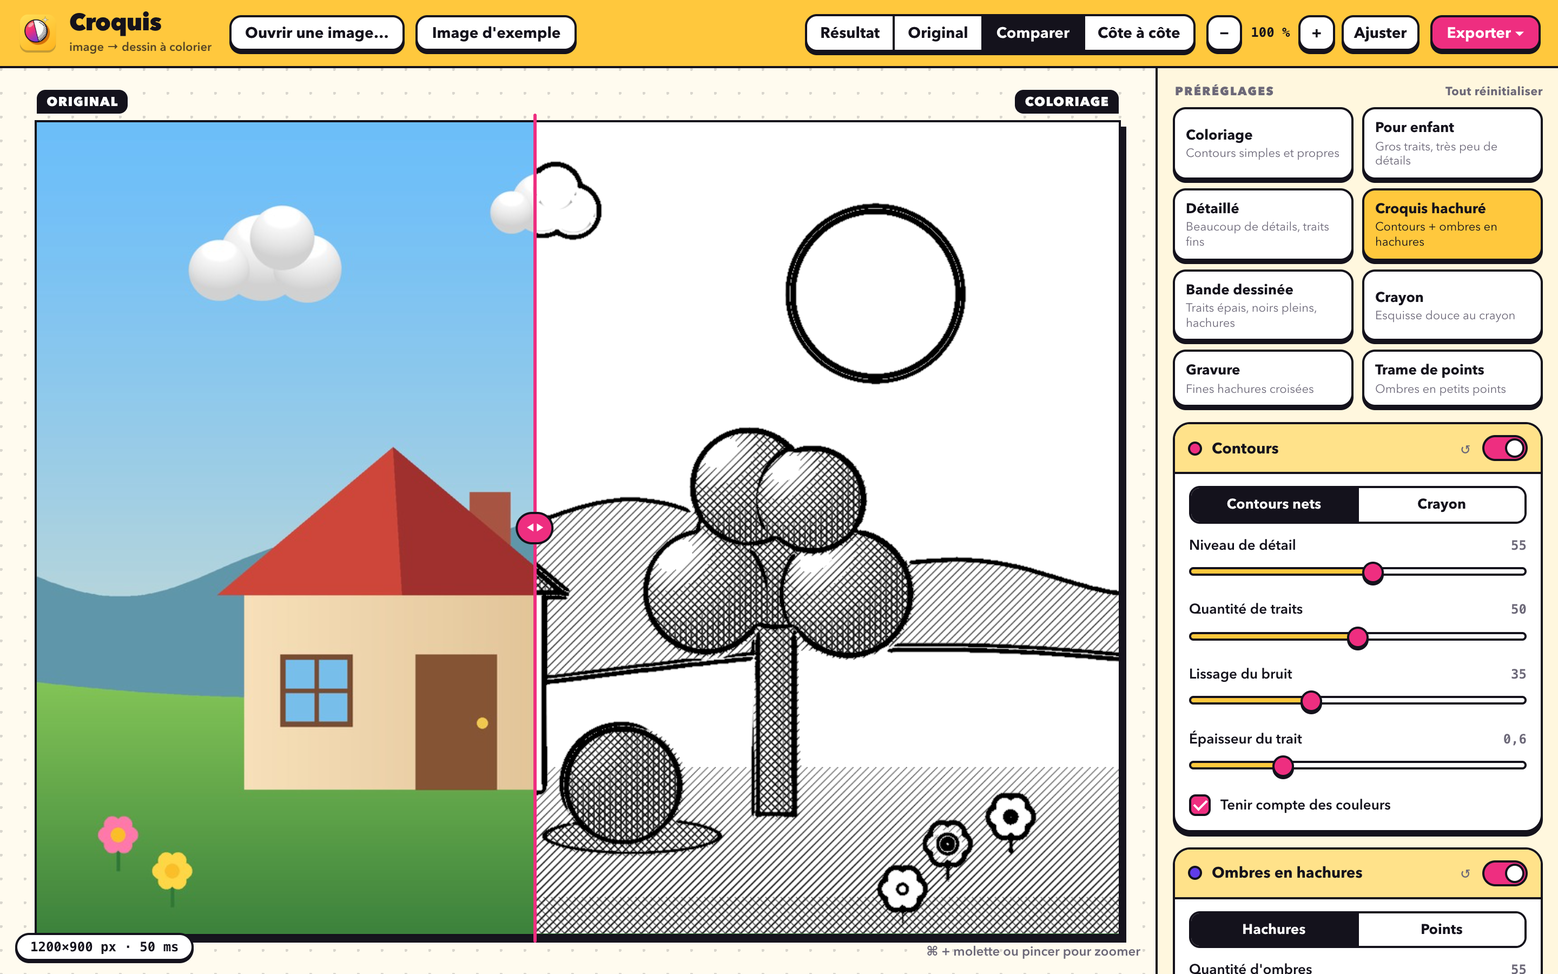
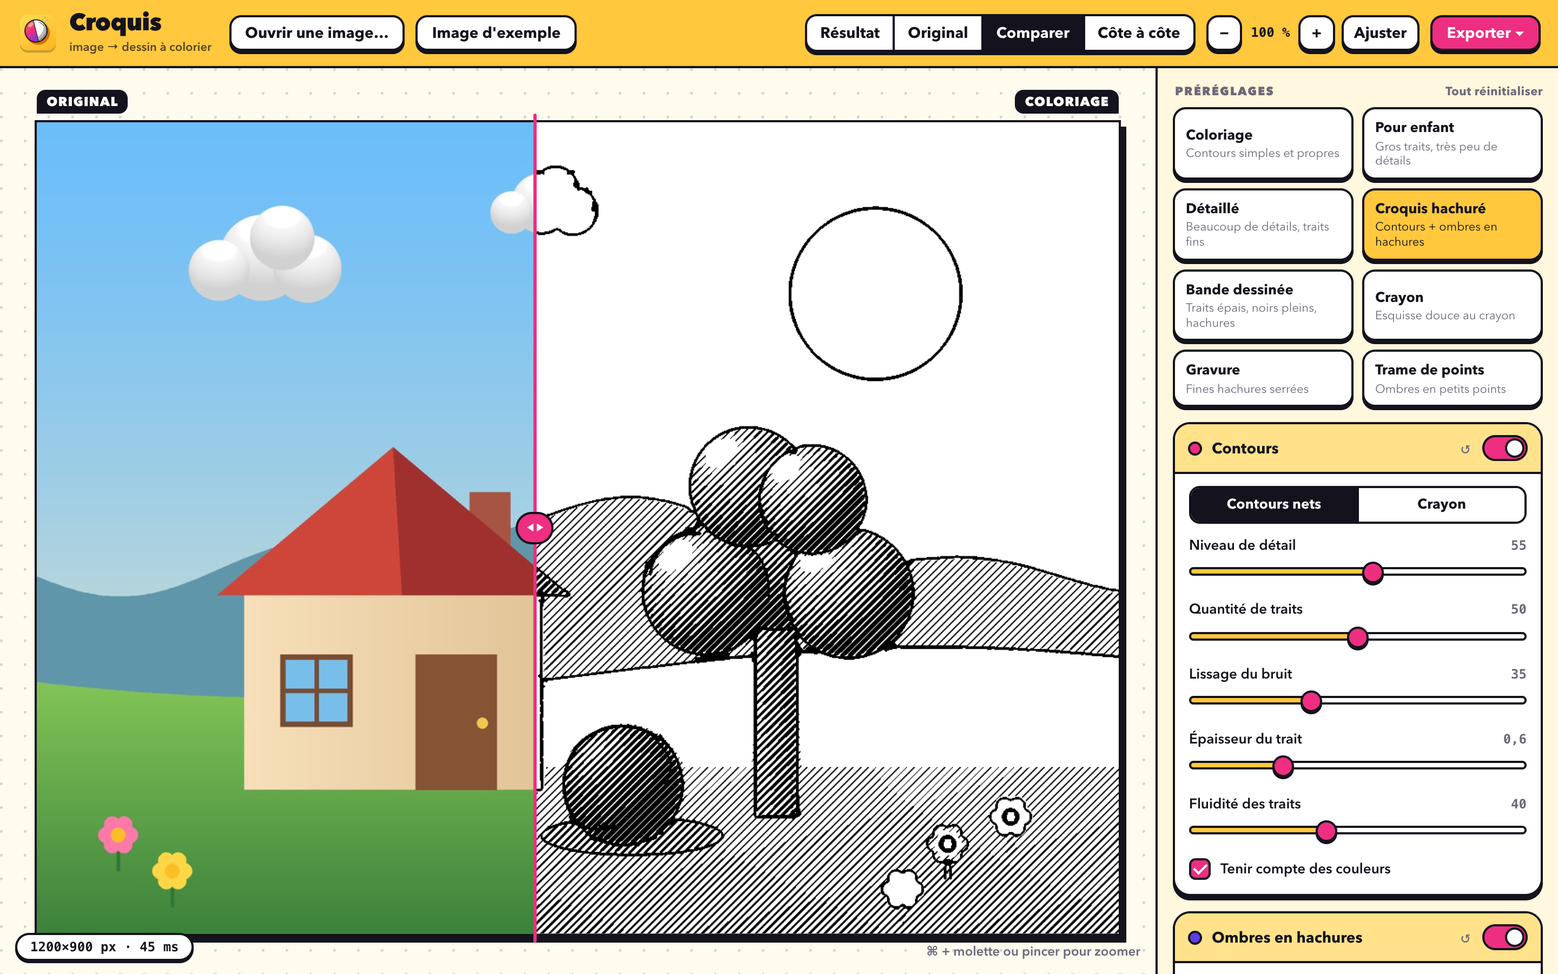
Croquis 1.1 : contours lisses, noir et blanc pur, ombres sans quadrillage
- Contours refaits : trait centré sur le bord, continu, d'épaisseur régulière et aux bords lisses
  (fin des marches d'escalier, des « bulles » et du double contour avec les couleurs).
- Nouveau curseur « Fluidité des traits ».
- Option « Noir et blanc pur » (activée par défaut) : chaque point est noir ou blanc, sans gris.
- Ombres en hachures parallèles dont le trait s'épaissit avec l'ombre ; hachures croisées en option.
- Hachures et points toujours bien noirs, à toute taille d'image.
- Tests supplémentaires (noir pur strict, largeur des traits, pas de quadrillage partout).

diff --git a/index.html b/index.html
@@ -190,12 +190,13 @@ const SCHEMA = [
     {t: "range", key: "lines.amount", label: "Quantité de traits", min: 0, max: 100, step: 1, tip: "Plus c'est haut, plus on garde de contours discrets."},
     {t: "range", key: "lines.smoothing", label: "Lissage du bruit", min: 0, max: 100, step: 1, tip: "Réduit les petits parasites d'une photo (grain, texture)."},
     {t: "range", key: "lines.thickness", label: "Épaisseur du trait", min: -2, max: 8, step: .1, fmt: fmt1, tip: "Négatif = traits plus fins, positif = traits plus épais."},
+    {t: "range", key: "lines.fluid", label: "Fluidité des traits", min: 0, max: 100, step: 1, tip: "Plus c'est haut, plus les courbes sont lisses et arrondies, et plus les petits traits voisins fusionnent."},
     {t: "chk", key: "lines.useColors", label: "Tenir compte des couleurs", tip: "Détecte aussi les contours entre deux couleurs de même clarté."},
   ]},
   {id: "shading", title: "Ombres en hachures", color: "var(--violet)", toggle: "shading.enabled", controls: [
     {t: "seg", key: "shading.style", opts: [["hatching", "Hachures"], ["dots", "Points"]]},
     {t: "range", key: "shading.amount", label: "Quantité d'ombres", min: 0, max: 100, step: 1, tip: "Plus c'est haut, plus de zones sont ombrées."},
-    {t: "range", key: "shading.layers", label: "Couches (hachures croisées)", min: 1, max: 4, step: 1, showIf: S => S.shading.style === "hatching", tip: "Plus c'est sombre, plus on ajoute de couches croisées."},
+    {t: "range", key: "shading.layers", label: "Hachures croisées (1 = sans quadrillage)", min: 1, max: 4, step: 1, showIf: S => S.shading.style === "hatching", tip: "1 = une seule direction, le noir s'épaissit dans les ombres. Plus haut : on croise des hachures dans les zones très sombres (effet quadrillage)."},
     {t: "range", key: "shading.spacing", label: "Écart entre les traits", min: 2, max: 16, step: .5, fmt: fmt1},
     {t: "range", key: "shading.lineWidth", label: "Épaisseur des hachures", min: .3, max: 3, step: .1, fmt: fmt1, showIf: S => S.shading.style === "hatching"},
     {t: "range", key: "shading.angle", label: "Angle", min: 0, max: 180, step: 5, fmt: v => v + "°"},
@@ -209,6 +210,7 @@ const SCHEMA = [
     {t: "range", key: "cleanup.size", label: "Taille des taches à effacer", min: 0, max: 100, step: 1, tip: "Efface les petits points et traits isolés."},
   ]},
   {id: "output", title: "Image et fond", color: "#bbb", controls: [
+    {t: "chk", key: "output.pure", label: "Noir et blanc pur, sans aucun gris", tip: "Chaque point du dessin est soit noir, soit blanc : idéal pour imprimer et colorier. Désactiver pour garder des bords adoucis."},
     {t: "chk", key: "output.autoContrast", label: "Corriger le contraste automatiquement", tip: "Utile pour les photos ternes ou trop sombres."},
     {t: "chk", key: "output.transparent", label: "Fond transparent (PNG)", tip: "Le fond blanc devient transparent : on ne garde que les traits."},
     {t: "chk", key: "output.negative", label: "Inverser : traits blancs sur fond noir"},
@@ -216,12 +218,12 @@ const SCHEMA = [
 ];
 const PRESETS = [
   {n: "Coloriage", d: "Contours simples et propres", p: {}},
-  {n: "Pour enfant", d: "Gros traits, très peu de détails", p: {lines: {detail: 28, amount: 55, smoothing: 60, thickness: 3.2}, cleanup: {size: 60}}},
-  {n: "Détaillé", d: "Beaucoup de détails, traits fins", p: {lines: {detail: 80, amount: 72, smoothing: 25, thickness: .2}, cleanup: {size: 18}}},
-  {n: "Croquis hachuré", d: "Contours + ombres en hachures", p: {shading: {enabled: true, layers: 3, amount: 55}, lines: {thickness: .6}}},
-  {n: "Bande dessinée", d: "Traits épais, noirs pleins, hachures", p: {lines: {thickness: 2.2, amount: 58}, solid: {enabled: true, threshold: 16}, shading: {enabled: true, layers: 2, amount: 42, lineWidth: 1.2}}},
+  {n: "Pour enfant", d: "Gros traits, très peu de détails", p: {lines: {detail: 28, amount: 55, smoothing: 60, thickness: 3.2, fluid: 70}, cleanup: {size: 60}}},
+  {n: "Détaillé", d: "Beaucoup de détails, traits fins", p: {lines: {detail: 80, amount: 72, smoothing: 25, thickness: .2, fluid: 15}, cleanup: {size: 18}}},
+  {n: "Croquis hachuré", d: "Contours + ombres en hachures", p: {shading: {enabled: true, layers: 1, amount: 55}, lines: {thickness: .6}}},
+  {n: "Bande dessinée", d: "Traits épais, noirs pleins, hachures", p: {lines: {thickness: 2.2, amount: 58}, solid: {enabled: true, threshold: 16}, shading: {enabled: true, layers: 1, amount: 42, lineWidth: 1.2}}},
   {n: "Crayon", d: "Esquisse douce au crayon", p: {lines: {style: "pencil", detail: 60, amount: 55, thickness: 0}}},
-  {n: "Gravure", d: "Fines hachures croisées", p: {lines: {thickness: 0, amount: 45}, shading: {enabled: true, layers: 4, spacing: 4, lineWidth: .8, amount: 70, smoothing: 55}}},
+  {n: "Gravure", d: "Fines hachures serrées", p: {lines: {thickness: 0, amount: 45}, shading: {enabled: true, layers: 1, spacing: 3.6, lineWidth: .9, amount: 70, smoothing: 55}}},
   {n: "Trame de points", d: "Ombres en petits points", p: {lines: {thickness: .8}, shading: {enabled: true, style: "dots", spacing: 6, amount: 65}}},
 ];
 const preserveOut = o => o.output;

diff --git a/engine.py b/engine.py
@@ -24,17 +24,17 @@ Image.MAX_IMAGE_PIXELS = 250_000_000
 
 DEFAULTS = {
     "lines": {"enabled": True, "style": "contours", "detail": 55, "amount": 50, "smoothing": 35,
-              "thickness": 1.2, "useColors": True},
-    "shading": {"enabled": False, "style": "hatching", "amount": 55, "layers": 3, "spacing": 5.0,
+              "thickness": 1.2, "fluid": 40, "useColors": True},
+    "shading": {"enabled": False, "style": "hatching", "amount": 55, "layers": 1, "spacing": 5.0,
                 "lineWidth": 1.0, "angle": 45, "variableWidth": True, "smoothing": 40},
     "solid": {"enabled": False, "threshold": 18},
     "cleanup": {"enabled": True, "size": 30},
-    "output": {"autoContrast": True, "transparent": False, "negative": False},
+    "output": {"autoContrast": True, "pure": True, "transparent": False, "negative": False},
 }
 
 RANGES = {
     ("lines", "detail"): (0, 100), ("lines", "amount"): (0, 100), ("lines", "smoothing"): (0, 100),
-    ("lines", "thickness"): (-2.0, 8.0),
+    ("lines", "thickness"): (-2.0, 8.0), ("lines", "fluid"): (0, 100),
     ("shading", "amount"): (0, 100), ("shading", "layers"): (1, 4), ("shading", "spacing"): (2.0, 16.0),
     ("shading", "lineWidth"): (0.3, 3.0), ("shading", "angle"): (0, 180), ("shading", "smoothing"): (0, 100),
     ("solid", "threshold"): (0, 100), ("cleanup", "size"): (0, 100),
@@ -232,6 +232,87 @@ def _contour_dog(src, L, auto):
     return src.memo(key, calc)
 
 
+def _sign_change_pixels(D):
+    """Pixels situés juste au milieu d'un bord : là où D change de signe entre deux voisins, on garde
+    celui des deux qui est le plus proche de zéro (ligne fine de 1 pixel, toujours continue)."""
+    pos = D > 0
+    out = np.zeros(D.shape, bool)
+    for ax in (0, 1):
+        a = [slice(None)] * 2
+        b = [slice(None)] * 2
+        a[ax], b[ax] = slice(0, -1), slice(1, None)
+        a, b = tuple(a), tuple(b)
+        flip = pos[a] != pos[b]
+        first = np.abs(D[a]) <= np.abs(D[b])
+        out[a] |= flip & first
+        out[b] |= flip & ~first
+    return out
+
+
+def _contour_field(src, L, auto):
+    """Pour chaque pixel : force du contour (en « contraste » : 1 = noir/blanc) et position du milieu du bord
+    (là où la différence de deux flous change de signe)."""
+    u = src.unit
+    sigma = 0.65 * (4.5 / 0.65) ** (1 - L["detail"] / 100) * u
+    pre = L["smoothing"] / 100 * 2.0 * u
+    key = ("zc", auto, L["useColors"], round(sigma, 3), round(pre, 3))
+
+    def calc():
+        lo, hi = _levels(src, auto)
+        planes = [_stretch(src.rgb[..., i], lo, hi) for i in range(3)] if L["useColors"] else [_gray(src, auto)]
+        total = math.sqrt(sigma * sigma + pre * pre)
+        zc = np.zeros((src.h, src.w), bool)
+        best_e = np.zeros((src.h, src.w), np.float32)
+        for p in planes:
+            base = gauss(p, pre) if pre > 0.3 else p
+            s1 = gauss(base, sigma)
+            D = s1 - gauss(base, sigma * 1.6)
+            gy, gx = np.gradient(s1)
+            e = np.hypot(gx, gy) * (total * 2.5066)                    # ≈ contraste de l'arête
+            # un bord compte pour cette couleur seulement s'il y est assez marqué : on garde le meilleur canal
+            zc |= _sign_change_pixels(D)                               # (tous les canaux placent le trait au même endroit)
+            best_e = np.maximum(best_e, e.astype(np.float32))
+        # un pixel marqué par un canal faible alors qu'un autre est fort reste cohérent : même position du bord
+        return best_e, zc
+    return src.memo(key, calc)
+
+
+def contour_skeleton(src, L, auto, min_len):
+    """Lignes fines (1 pixel) au milieu des bords : continues, sans doublon, sans petits fragments."""
+    e, band = _contour_field(src, L, auto)
+    c_hi = 0.56 * (0.04 / 0.56) ** (L["amount"] / 100)                # sensibilité : curseur « quantité de traits »
+    strong = band & (e > c_hi)
+    weak = band & (e > 0.55 * c_hi)                                    # hystérésis : un trait faible est gardé
+    if not strong.any():                                               # s'il touche un trait fort
+        return np.zeros(e.shape, bool)
+    lab, n = ndi.label(weak, structure=np.ones((3, 3), dtype=bool))
+    keep = np.zeros(n + 1, bool)
+    keep[np.unique(lab[strong])] = True
+    keep[0] = False
+    if min_len > 1:
+        keep &= np.bincount(lab.ravel(), minlength=n + 1) >= min_len
+    return keep[lab]
+
+
+def thick_lines(skel, width_px, u, fluid=40.0):
+    """Donne une épaisseur régulière aux lignes fines, avec des bords lisses (pas de « bulles »).
+    `fluid` (0-100) : plus c'est haut, plus les courbes sont arrondies et les détails voisins fusionnent."""
+    if not skel.any():
+        return np.zeros(skel.shape, np.float32)
+    dist = ndi.distance_transform_edt(~skel).astype(np.float32)
+    cover = np.clip(width_px / 2 - dist + 0.5, 0, 1).astype(np.float32)
+    if fluid <= 0:
+        return cover
+    m = max(width_px, 0.8)                                             # largeur voulue des lignes, en pixels
+    # rayon de lissage : au plus celui demandé, et jamais plus que la moitié de la largeur (sinon la ligne s'étalerait)
+    sg = max(0.7, min((0.8 + fluid / 100 * 2.2) * u, m / 2))
+    sm = gauss(cover, sg)
+    # niveau auquel une ligne de largeur m, floutée de sg, garde exactement sa largeur (profil d'un créneau flouté)
+    t = float(np.clip(0.5 * math.erf(m / (1.41421 * sg)), 0.3, 0.5))
+    gy, gx = np.gradient(sm)
+    return np.clip((sm - t) / (np.hypot(gx, gy) + 1e-4) + 0.5, 0, 1).astype(np.float32)   # bord net sur 1 px
+
+
 def lines_ink(src, L, auto):
     u = src.unit
     if L["style"] == "pencil":
@@ -269,12 +350,13 @@ def hatch_ink(src, tone, S):
         b = (-xx * s + yy * c) / sp
         fa, fb = a - np.floor(a) - 0.5, b - np.floor(b) - 0.5
         dist = np.sqrt(fa * fa + fb * fb) * sp
-        radius = np.sqrt(dark * 0.85 / math.pi) * sp
-        return np.where(dark > 0.02, np.clip(radius - dist + 0.5, 0, 1), 0).astype(np.float32)
+        radius = np.maximum(np.sqrt(dark * 0.85 / math.pi) * sp, max(0.8, 0.45 * u))   # un point reste toujours bien noir
+        return np.where(dark > 0.06, np.clip(radius - dist + 0.5, 0, 1), 0).astype(np.float32)
     offsets = [0, 90, -45, 45]
     n = int(S["layers"])
     for i in range(n):
-        T = top - (top - 0.06) * i / n
+        # la 2e couche (croisée) n'apparaît que dans les zones vraiment sombres : pas de quadrillage partout
+        T = top * (0.55 ** i)
         active = tone < T
         if not active.any():
             break
@@ -283,10 +365,12 @@ def hatch_ink(src, tone, S):
         f = pos - np.floor(pos)
         dist = np.minimum(f, 1 - f) * sp
         if S["variableWidth"]:
-            depth = np.clip((T - tone) / 0.18, 0, 1)
-            half = 0.5 * lw * (0.35 + 0.65 * depth) * 1.25
+            # plus c'est sombre, plus le trait s'épaissit (jusqu'à ~85 % de l'écart) : le dégradé se fait sans quadrillage
+            depth = np.clip((T - tone) / T, 0, 1) ** 1.2
+            half = np.maximum(0.5 * lw, 0.5 * lw + (0.42 * sp - 0.5 * lw) * depth)
         else:
             half = 0.5 * lw
+        half = np.maximum(half, max(0.55, 0.3 * u))                     # jamais trop fin : trait noir franc, à toute taille
         cov = np.clip(half - dist + 0.5, 0, 1)
         out = np.maximum(out, np.where(active, cov, 0).astype(np.float32))
     return out
@@ -310,11 +394,17 @@ def render(src, settings, cancel=None):
         min_area = (s["cleanup"]["size"] / 100) ** 2 * 600 * u * u
 
     if s["lines"]["enabled"]:
-        L = lines_ink(src, s["lines"], auto)
-        check()
-        L = remove_small(L, min_area)
-        check()
-        ink = thicken(L, s["lines"]["thickness"] * u)
+        if s["lines"]["style"] == "pencil":
+            L = lines_ink(src, s["lines"], auto)
+            check()
+            L = remove_small(L, min_area)
+            check()
+            ink = thicken(L, s["lines"]["thickness"] * u)
+        else:
+            min_len = s["cleanup"]["size"] / 100 * 100 * u if s["cleanup"]["enabled"] else 0
+            skel = contour_skeleton(src, s["lines"], auto, min_len)
+            check()
+            ink = thick_lines(skel, max(0.8, 1.6 + 0.8 * s["lines"]["thickness"]) * u, u, s["lines"]["fluid"])
         check()
 
     if s["shading"]["enabled"]:
@@ -331,6 +421,9 @@ def render(src, settings, cancel=None):
         solid = remove_small(solid, min_area)
         ink = np.maximum(ink, solid)
         check()
+    if s["output"]["pure"]:
+        # noir pur : chaque pixel est soit noir, soit blanc (aucun niveau de gris, même sur les bords)
+        ink = (ink > 0.5).astype(np.float32)
     return ink
 
 

diff --git a/tests/test_engine.py b/tests/test_engine.py
@@ -59,7 +59,7 @@ class EngineTests(unittest.TestCase):
         self.assertGreater(float(with_cleanup[300 - 190:300 - 170, 300].max()), 0.5)   # le disque est gardé
 
     def test_thickness_changes_amount_of_ink(self):
-        src = engine.Source(disc_image())
+        src = engine.Source(disc_image(1000, 300))
         thin = engine.render(src, settings(lines={"thickness": -1.0})).sum()
         base = engine.render(src, settings(lines={"thickness": 0.0})).sum()
         fat = engine.render(src, settings(lines={"thickness": 4.0})).sum()
@@ -79,7 +79,7 @@ class EngineTests(unittest.TestCase):
         src = engine.Source(np.full((n, n, 3), 25, np.uint8))
         a = engine.render(src, settings(lines={"enabled": False}, shading={"enabled": True, "layers": 1}, output={"autoContrast": False})).mean()
         b = engine.render(src, settings(lines={"enabled": False}, shading={"enabled": True, "layers": 4}, output={"autoContrast": False})).mean()
-        self.assertGreater(b, a * 1.5)
+        self.assertGreater(b, a * 1.1)
 
     def test_solid_fills_very_dark_areas(self):
         img = np.full((400, 400, 3), 230, np.uint8)
@@ -92,9 +92,33 @@ class EngineTests(unittest.TestCase):
     def test_preview_and_full_size_look_the_same(self):
         rgb = sample.make_sample()
         s = settings(shading={"enabled": True})
-        small = engine.render(engine.Source(engine.resize_rgb(rgb, 600)), s).mean()
-        big = engine.render(engine.Source(engine.resize_rgb(rgb, 1200)), s).mean()
+        small = engine.render(engine.Source(engine.resize_rgb(rgb, 1000)), s).mean()
+        big = engine.render(engine.Source(engine.resize_rgb(rgb, 2000)), s).mean()
         self.assertLess(abs(small - big) / big, 0.2, f"quantité d'encre différente : {small:.3f} vs {big:.3f}")
+
+    def test_pure_mode_is_strictly_black_and_white(self):
+        """Aucun gris : chaque pixel est 0 ou 255, quels que soient les effets activés."""
+        rgb = sample.make_sample()
+        src = engine.Source(engine.resize_rgb(rgb, 700))
+        for s in (settings(), settings(shading={"enabled": True, "layers": 4}), settings(shading={"enabled": True, "style": "dots"}, solid={"enabled": True}),
+                  settings(lines={"style": "pencil"}), settings(lines={"fluid": 100, "thickness": 5})):
+            vals = set(np.unique(np.asarray(engine.to_image(engine.render(src, s)))).tolist())
+            self.assertTrue(vals <= {0, 255}, f"niveaux de gris trouvés : {sorted(vals)[:6]}")
+            self.assertEqual(vals, {0, 255})                                 # il y a bien du noir ET du blanc
+        alpha = np.asarray(engine.to_image(engine.render(src, settings()), transparent=True))[..., 3]
+        self.assertTrue(set(np.unique(alpha).tolist()) <= {0, 255})
+        soft = engine.render(src, settings(output={"pure": False}))
+        self.assertGreater(len(np.unique(soft)), 2)                          # l'option peut être désactivée
+
+    def test_cross_hatching_does_not_make_a_grid_everywhere(self):
+        """Les hachures croisées n'apparaissent que dans les zones très sombres."""
+        n = 1000
+        mid = engine.Source(np.full((n, n, 3), 110, np.uint8))              # gris moyen : une seule direction
+        dark = engine.Source(np.full((n, n, 3), 20, np.uint8))               # très sombre : deux directions
+        s = settings(lines={"enabled": False}, shading={"enabled": True, "layers": 2, "amount": 80}, output={"autoContrast": False})
+        a, b = engine.render(mid, s).mean(), engine.render(dark, s).mean()
+        self.assertGreater(a, 0.05)
+        self.assertGreater(b, a * 1.4)
 
     def test_bad_settings_never_crash(self):
         for bad in (None, 5, "x", {"lines": 3}, {"lines": {"detail": "abc", "thickness": 1e99, "style": "zzz"}},

diff --git a/README.md b/README.md
@@ -27,11 +27,11 @@ L'app est **autonome** (Python et bibliothèques sont dedans) : on la glisse dan
 
 | Option | Effet |
 |---|---|
-| **Contours** | Trait noir autour des formes. *Contours nets* (style coloriage) ou *Crayon* (esquisse douce). Réglages : niveau de détail, quantité de traits, lissage du bruit, épaisseur, prise en compte des couleurs. |
-| **Ombres en hachures** | Les zones sombres deviennent des hachures (jusqu'à 4 couches croisées : plus l'ombre est profonde, plus il y en a) ou des petits points. Réglages : quantité d'ombres, écart, épaisseur, angle, regroupement des ombres. |
+| **Contours** | Trait noir autour des formes. *Contours nets* (style coloriage) ou *Crayon* (esquisse douce). Traits lisses, continus et d'épaisseur régulière. Réglages : niveau de détail, quantité de traits, lissage du bruit, épaisseur, fluidité des traits, prise en compte des couleurs. |
+| **Ombres en hachures** | Les zones sombres deviennent des hachures parallèles dont le trait s'épaissit avec l'ombre (donc pas de quadrillage ; des hachures croisées restent possibles en option) ou des petits points. Réglages : quantité d'ombres, écart, épaisseur, angle, regroupement des ombres. |
 | **Aplats noirs** | Les zones très sombres (pupilles, ombres profondes) sont remplies en noir. |
 | **Nettoyage** | Efface les petits points et traits isolés (grain d'une photo, parasites). |
-| **Image et fond** | Correction automatique du contraste, fond transparent (PNG), négatif (traits blancs sur noir). |
+| **Image et fond** | **Noir et blanc pur** (aucun gris : chaque point est noir ou blanc, activé par défaut), correction automatique du contraste, fond transparent (PNG), négatif (traits blancs sur noir). |
 | **Préréglages** | Coloriage, Pour enfant, Détaillé, Croquis hachuré, Bande dessinée, Crayon, Gravure, Trame de points. |
 
 Tout se voit **en temps réel** : *Résultat*, *Original*, *Comparer* (curseur glissant) ou *Côte à côte*, avec zoom.
@@ -57,7 +57,7 @@ Un exemple complet est dans [`examples/`](examples) : l'image d'origine, son col
 
 ## Installation
 
-1. Télécharger `Croquis-1.0-macOS-arm64.dmg` depuis la [page des versions](https://github.com/Wudstyz/Croquis/releases/latest), l'ouvrir, puis glisser **Croquis** dans **Applications**.
+1. Télécharger `Croquis-1.1-macOS-arm64.dmg` depuis la [page des versions](https://github.com/Wudstyz/Croquis/releases/latest), l'ouvrir, puis glisser **Croquis** dans **Applications**.
 2. **Première ouverture** : l'app est signée « ad hoc » (pas de compte développeur Apple payant, donc pas de notarisation). macOS demande une confirmation une seule fois :
    - **clic droit sur Croquis → Ouvrir → Ouvrir**, ou
    - dans le Terminal : `xattr -dr com.apple.quarantine /Applications/Croquis.app`
@@ -86,7 +86,7 @@ Il faut les outils en ligne de commande de Xcode (`clang`, `codesign`, `hdiutil`
 
 ```bash
 ./build_app.sh     # fabrique Croquis.app (≈ 115 Mo)
-./make_dmg.sh      # fabrique dist/Croquis-1.0-macOS-arm64.dmg et affiche sa somme SHA-256
+./make_dmg.sh      # fabrique dist/Croquis-1.1-macOS-arm64.dmg et affiche sa somme SHA-256
 ```
 
 Lancer sans construire (avec un Python 3.14 qui a `pywebview pillow numpy scipy pyobjc-framework-Cocoa`) : `python app.py`.

diff --git a/README.en.md b/README.en.md
@@ -29,11 +29,11 @@ The app is **self-contained** (Python and libraries are inside): drag it to *App
 
 | Option | Effect |
 |---|---|
-| **Outlines** | Black line around shapes. *Clean outlines* (coloring-book style) or *Pencil* (soft sketch). Settings: level of detail, amount of lines, noise smoothing, thickness, take colors into account. |
-| **Shadows as hatching** | Dark areas become hatching (up to 4 crossed layers: the deeper the shadow, the more layers) or small dots. Settings: amount of shadow, spacing, thickness, angle, shadow grouping. |
+| **Outlines** | Black line around shapes. *Clean outlines* (coloring-book style) or *Pencil* (soft sketch). Smooth, continuous lines of even thickness. Settings: level of detail, amount of lines, noise smoothing, thickness, line fluidity, take colors into account. |
+| **Shadows as hatching** | Dark areas become parallel hatching whose strokes get thicker with the shadow (so no grid pattern; crossed hatching is available as an option) or small dots. Settings: amount of shadow, spacing, thickness, angle, shadow grouping. |
 | **Solid blacks** | Very dark areas (pupils, deep shadows) are filled with solid black. |
 | **Cleanup** | Erases small specks and isolated strokes (photo grain, artifacts). |
-| **Image and background** | Automatic contrast correction, transparent background (PNG), negative (white lines on black). |
+| **Image and background** | **Pure black and white** (no gray at all: every dot is black or white, on by default), automatic contrast correction, transparent background (PNG), negative (white lines on black). |
 | **Presets** | Coloriage, For kids, Detailed, Hatched sketch, Comic book, Pencil, Engraving, Dot pattern. |
 
 Everything updates **live**: *Result*, *Original*, *Compare* (sliding divider) or *Side by side*, with zoom.
@@ -59,7 +59,7 @@ A full example is in [`examples/`](examples): the original image, its coloring p
 
 ## Installation
 
-1. Download `Croquis-1.0-macOS-arm64.dmg` from the [releases page](https://github.com/Wudstyz/Croquis/releases/latest), open it and drag **Croquis** into **Applications**.
+1. Download `Croquis-1.1-macOS-arm64.dmg` from the [releases page](https://github.com/Wudstyz/Croquis/releases/latest), open it and drag **Croquis** into **Applications**.
 2. **First launch**: the app is ad-hoc signed (no paid Apple developer account, so no notarization). macOS asks for a one-time confirmation:
    - **right-click Croquis → Open → Open**, or
    - in Terminal: `xattr -dr com.apple.quarantine /Applications/Croquis.app`
@@ -88,7 +88,7 @@ You need the Xcode command-line tools (`clang`, `codesign`, `hdiutil`). The scri
 
 ```bash
 ./build_app.sh     # builds Croquis.app (≈ 115 MB)
-./make_dmg.sh      # builds dist/Croquis-1.0-macOS-arm64.dmg and prints its SHA-256
+./make_dmg.sh      # builds dist/Croquis-1.1-macOS-arm64.dmg and prints its SHA-256
 ```
 
 Run without building (with a Python 3.14 that has `pywebview pillow numpy scipy pyobjc-framework-Cocoa`): `python app.py`.
